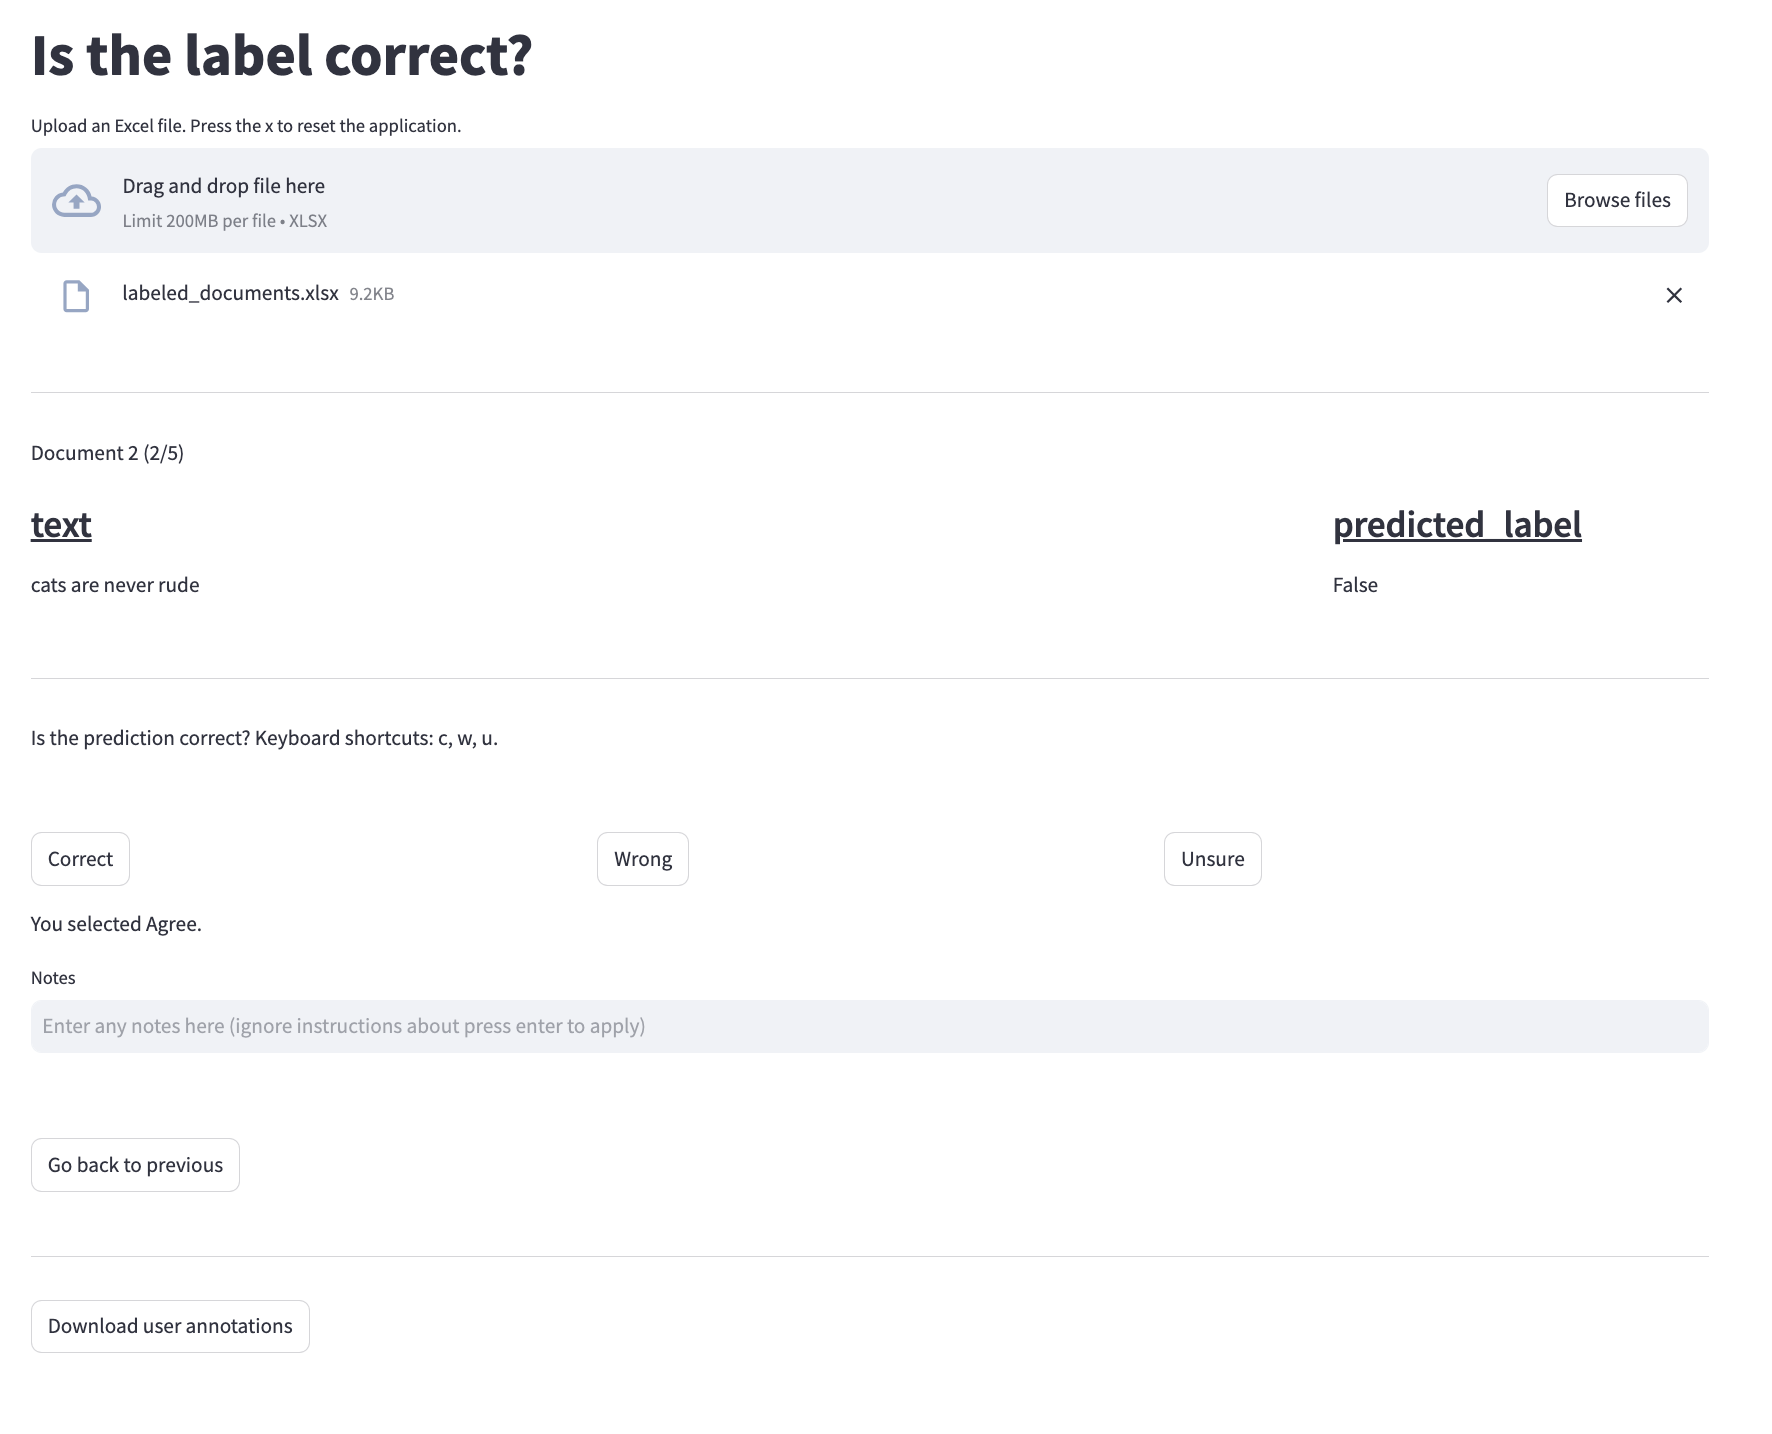
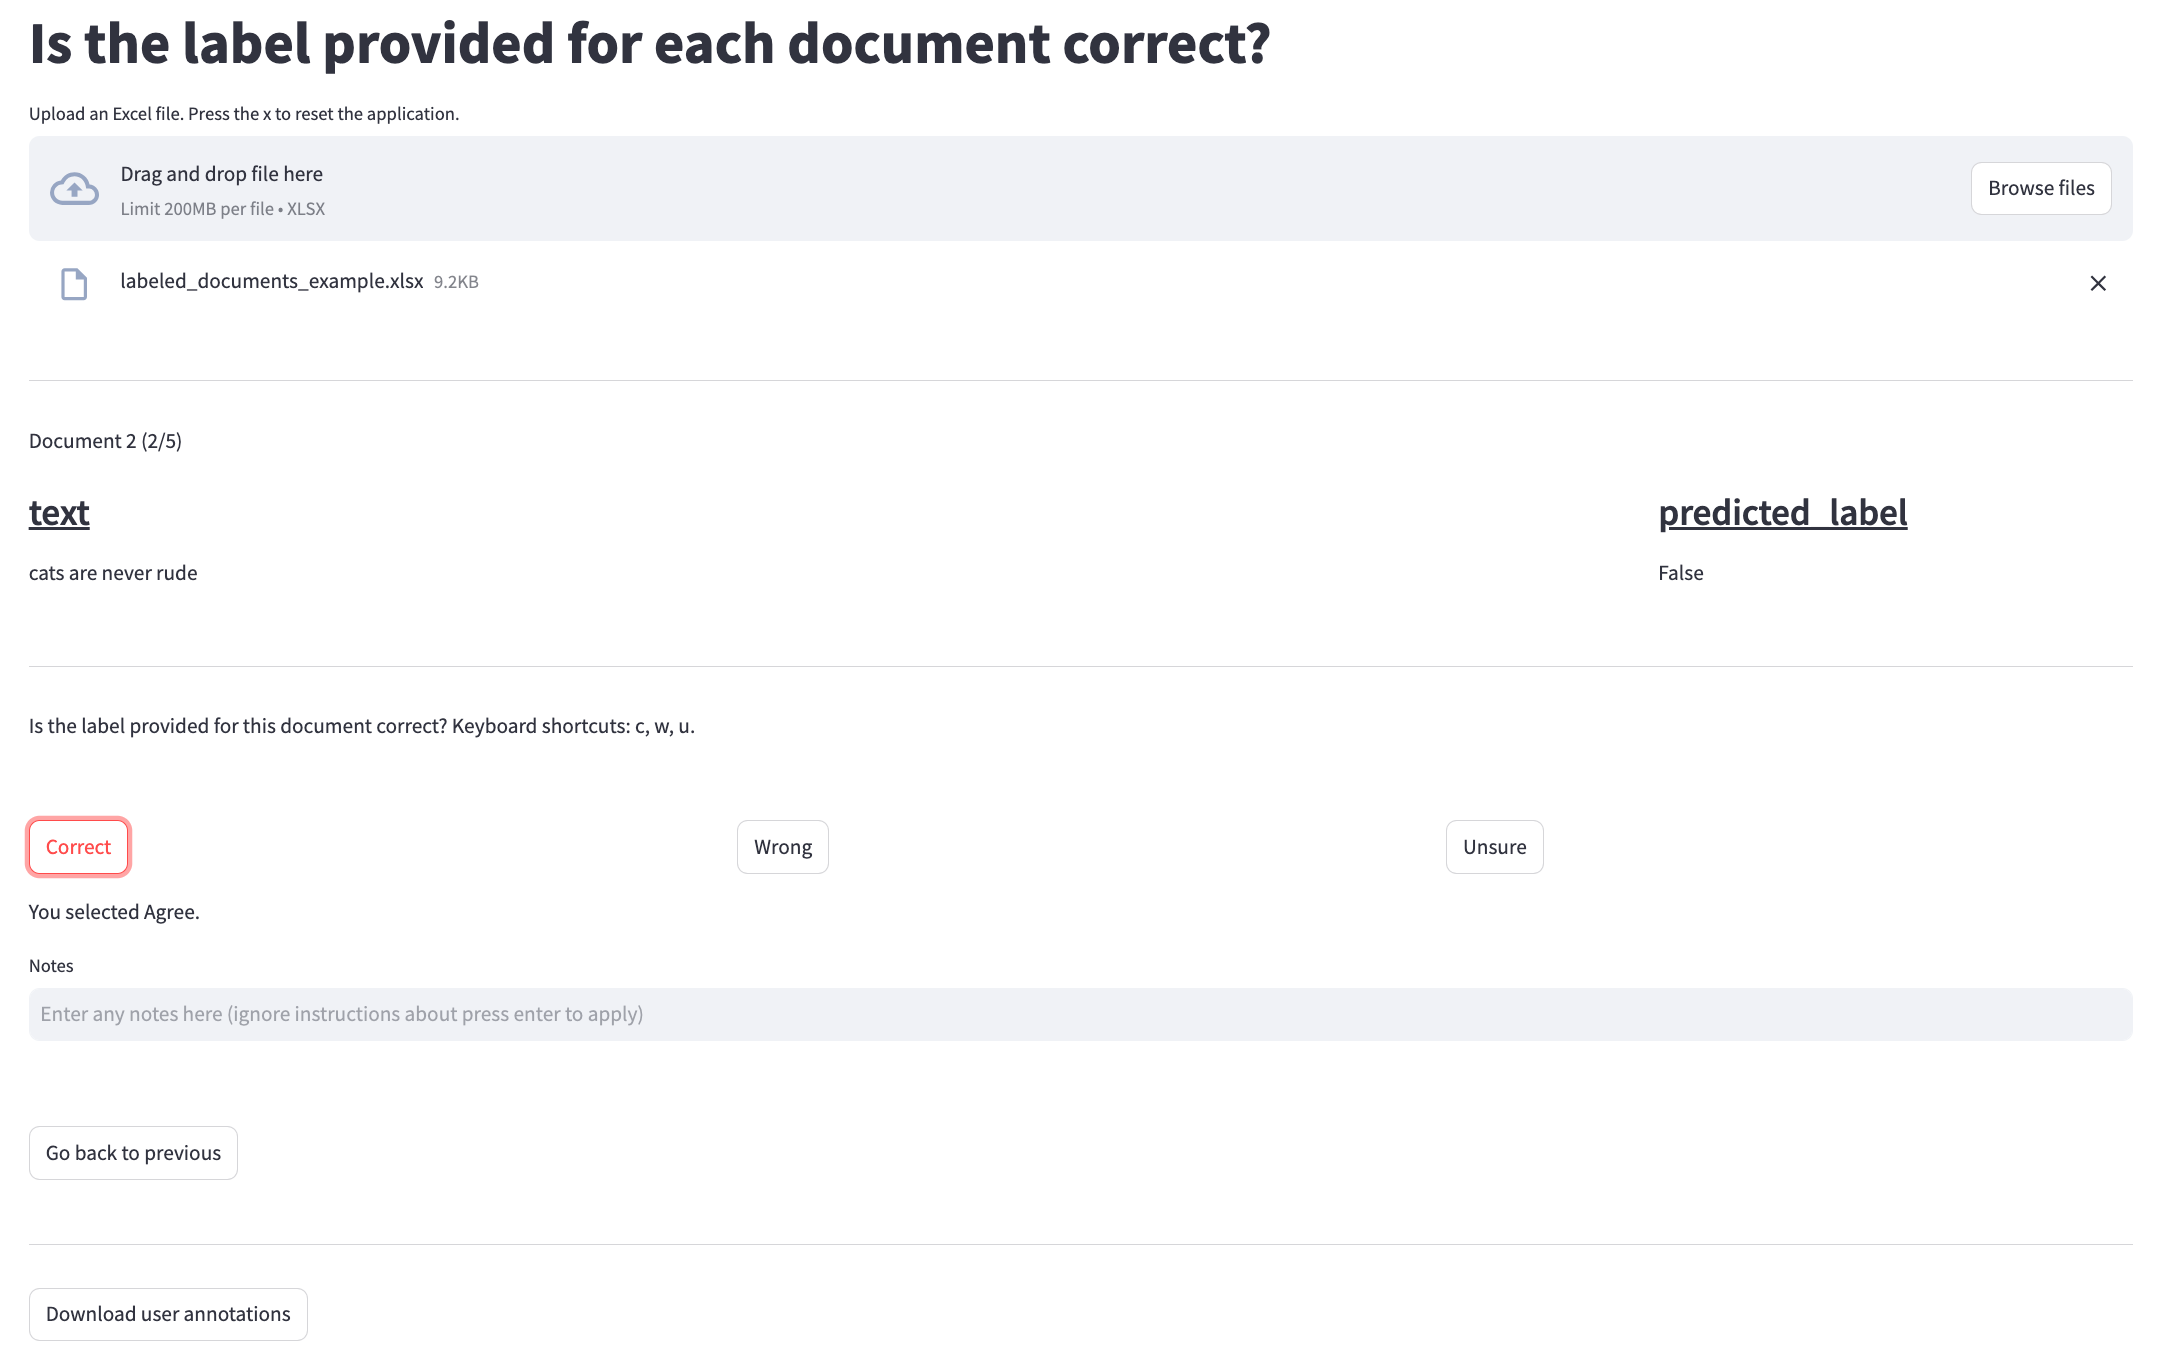
up

diff --git a/document_label_anntation_app.py b/document_label_anntation_app.py
@@ -1,5 +1,7 @@
 """
 This script creates a streamlit app for users to annotate if they agree/disagree with provided document/label pairs.
+
+This code was written with assistance from ChatGPT.
 """
 import streamlit as st
 import pandas as pd
@@ -82,7 +84,7 @@ def feedback_buttons(df):
     is_done = st.session_state.current_index >= total_docs
 
     # Place the prompt text before the buttons
-    st.write("Is the label provided for each document correct?")
+    # st.write("")
 
     correct_col, wrong_col, unsure_col = st.columns([1, 1, 1])
     with correct_col:
@@ -99,7 +101,7 @@ def feedback_buttons(df):
     is_done = st.session_state.current_index >= total_docs
 
     # Display the prompt text above the buttons
-    st.write("Is the prediction correct? Keyboard shortcuts: c, w, u.")
+    st.write("Is the label provided for this document correct? Keyboard shortcuts: c, w, u.")
 
     # Use keyboard shortcuts with the custom button function
     correct_col, wrong_col, unsure_col = st.columns([1, 1, 1])
@@ -153,7 +155,7 @@ def download_annotations(df):
 def main():
     initialize_session_state()
     
-    st.title("Is the label correct?")
+    st.title("Is the label provided for each document correct?")
     
     # File uploader with reset check
     uploaded_file = st.\
